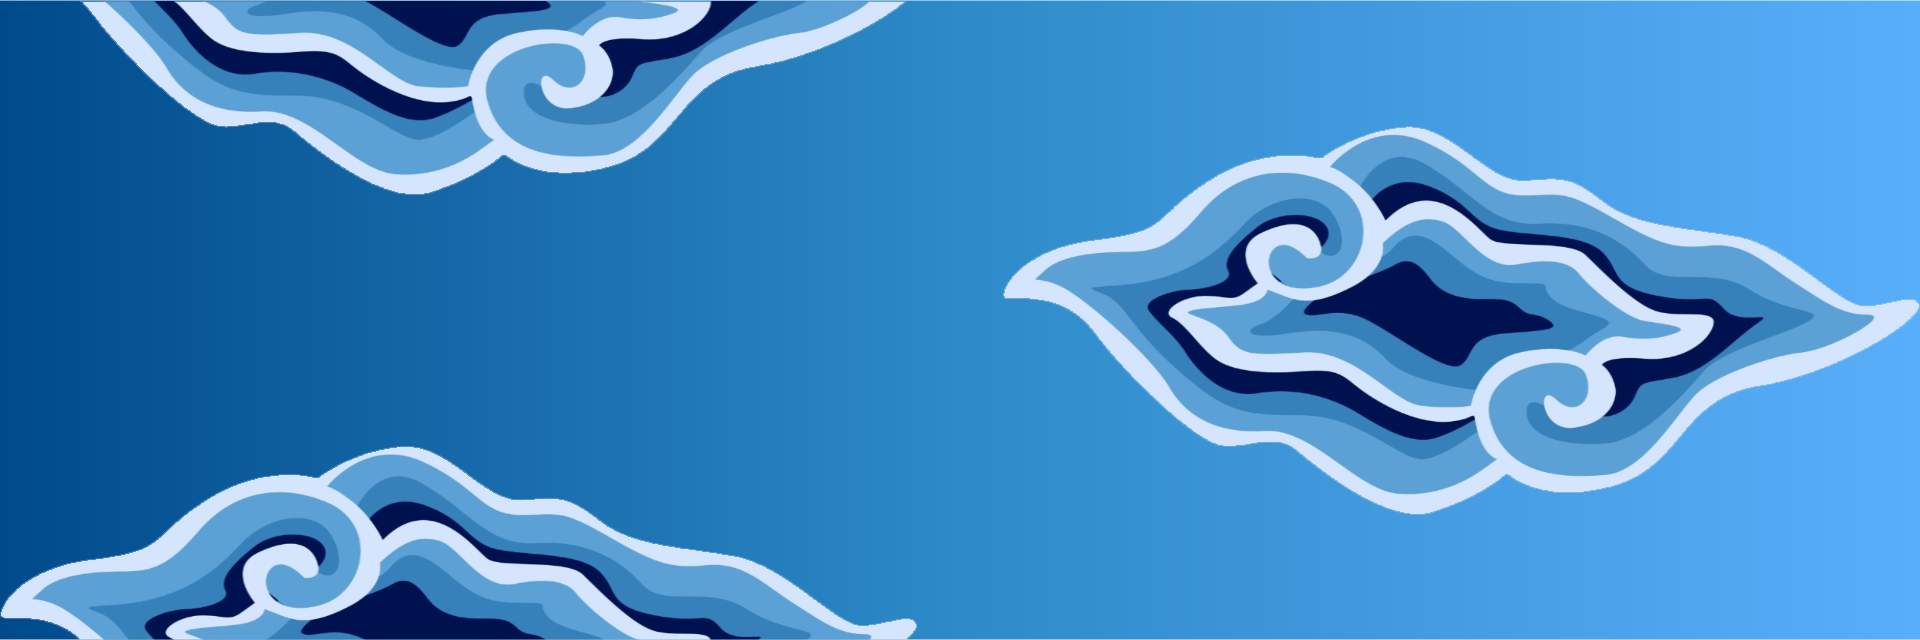
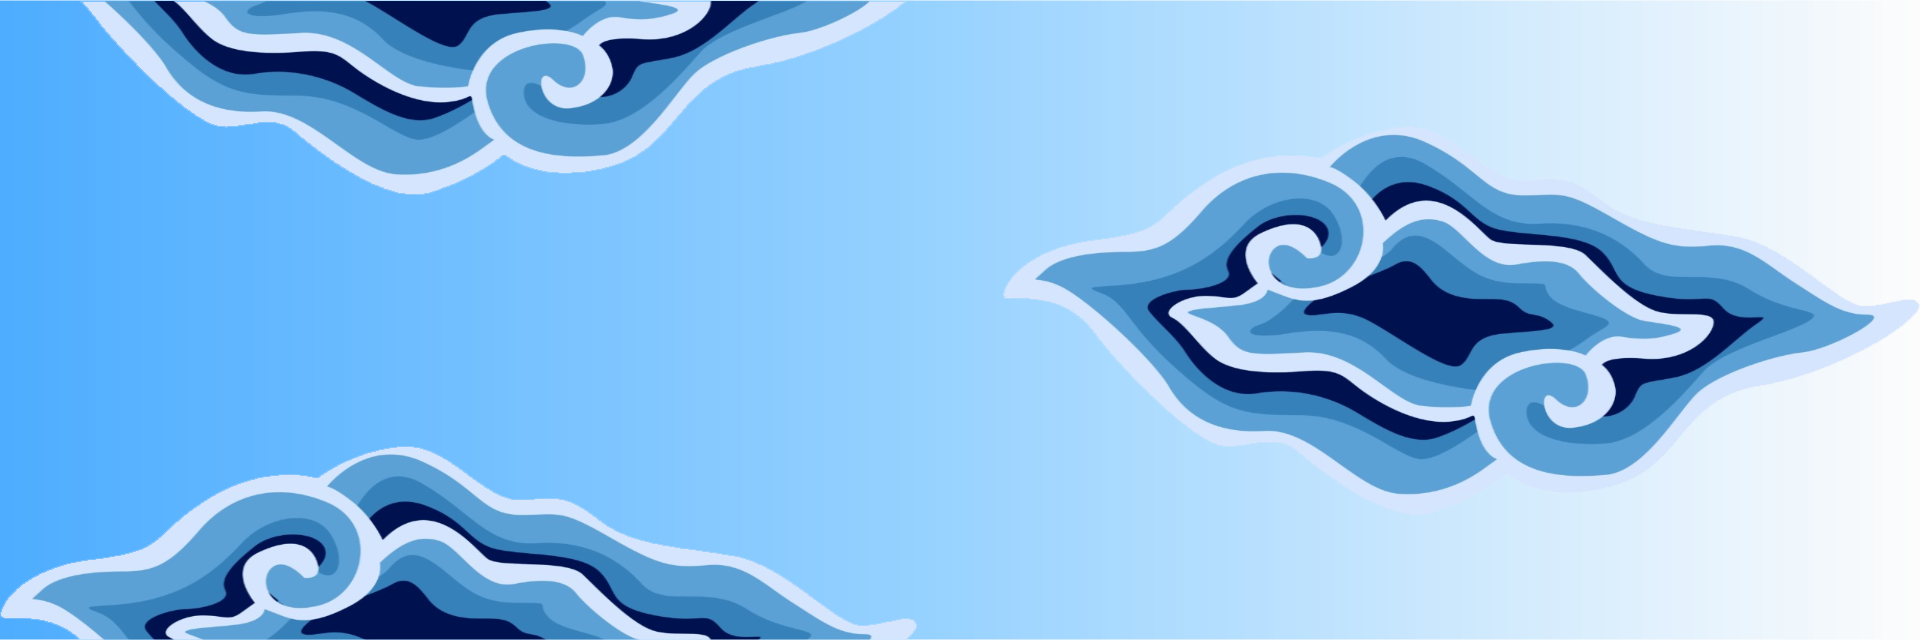
update

diff --git a/public/assets/landingpage/css/bootstrap.min.css b/public/assets/landingpage/css/bootstrap.min.css
@@ -34,9 +34,9 @@
         "Liberation Mono", "Courier New", monospace;
     --bs-gradient: linear-gradient(
         90deg,
-        rgba(0, 74, 139, 1) 0%,
-        rgba(46, 138, 200, 1) 50%,
-        rgba(89, 174, 250, 1) 100%
+        rgba(78, 173, 255, 1) 0%,
+        rgba(153, 211, 255, 1) 50%,
+        rgba(252, 252, 252, 1) 100%
     );
 }
 *,

diff --git a/resources/views/landingpage/index.blade.php b/resources/views/landingpage/index.blade.php
@@ -29,7 +29,9 @@
     {{-- personil --}}
     <div class="container-fluid container-service py-5" id="personil">
         <div class="container pb-5">
-            <h1 class="mb-3 fadeIn text-white" data-wow-delay="0.3s">Rapor pendidikan SMP Negeri 2 Kota Cirebon</h1>
+            <h1 class="mb-3 fadeIn text-white" data-wow-delay="0.3s" style="text-shadow: 2px 2px black">
+                Rapor pendidikan SMP Negeri 2 Kota Cirebon
+            </h1>
             <div class="d-flex flex-wrap justify-content-center g-0 feature-row bg-white fadeIn" id="rapor"
                 data-wow-delay="0.3s">
             </div>
@@ -37,7 +39,7 @@
 
         <div class="container pb-5">
             <div class="row py-2">
-                <h1 class="display-6 fw-bold mb-3 text-white">Kepala Sekolah</h1>
+                <h1 class="display-6 fw-bold mb-3 text-white" style="text-shadow: 2px 2px black">Kepala Sekolah</h1>
                 <div class="col-md-6 wow fadeIn mt-2 my-4" data-wow-delay="0.3s">
                     <img class="img-fluid w-100 shadow" style="border-radius: 1%"
                         src="{{ isset($kepalaSekolah) ? asset('assets/panel/admin/images/personil/' . $kepalaSekolah->image) : asset('assets/panel/admin/images/personil/person.jpg') }}"
@@ -59,12 +61,12 @@
 
         <div class="container pb-5">
             <div class="d-flex justify-content-between align-items-center mb-4">
-                <h1 class="display-6 mb-3">Ekstrakulikuler</h1>
+                <h1 class="display-6 mb-3 text-white" style="text-shadow: 2px 2px black">Ekstrakulikuler</h1>
                 {{-- <a href="{{ route('berita') }}" class="btn btn-primary btn-sm shadow">Lihat Semua Berita</a> --}}
             </div>
             <div class="row g-2">
                 @if (count($ekskuls) == 0)
-                    <h5 class="text-center">Tidak ada Ekstrakulikuler</h5>
+                    <h5 class="text-center text-white" style="text-shadow: 2px 2px black">Tidak ada Ekstrakulikuler</h5>
                 @endif
                 @foreach ($ekskuls as $ekskul)
                     <div class="col-lg-4 col-md-4 wow fadeInUp overflow-hidden fadeIn shadow"
@@ -88,13 +90,13 @@
 
         <div class="container pb-5" id="prestasi">
             <div class="d-flex justify-content-between align-items-center mb-4">
-                <h1 class="mb-3">Prestasi SMP Negeri 2 Kota Cirebon</h1>
+                <h1 class="mb-3 text-white" style="text-shadow: 2px 2px black">Prestasi SMP Negeri 2 Kota Cirebon</h1>
                 <a href="{{ route('prestasi') }}" class="btn btn-primary btn-sm shadow">Lihat Semua Prestasi</a>
             </div>
 
             <div class="row g-4 fadeIn" data-wow-delay="0.2s">
                 @if (count($prestasi) == 0)
-                    <h5 class="text-center">Tidak ada prestasi</h5>
+                    <h5 class="text-center text-white" style="text-shadow: 2px 2px black">Tidak ada prestasi</h5>
                 @endif
                 @foreach ($prestasi as $prestasi)
                     <div class="col-lg-4 col-md-6 wow fadeInUp" data-wow-delay="0.1s" style="object-fit: cover;">
@@ -119,12 +121,12 @@
 
         <div class="container pb-5">
             <div class="d-flex justify-content-between align-items-center mb-4">
-                <h1 class="display-6 mb-3">Berita</h1>
+                <h1 class="display-6 mb-3 text-white" style="text-shadow: 2px 2px black;">Berita</h1>
                 <a href="{{ route('berita') }}" class="btn btn-primary btn-sm shadow">Lihat Semua Berita</a>
             </div>
             <div class="row g-2">
                 @if (count($pengumuman) == 0)
-                    <h5 class="text-center">Tidak ada pengumuman</h5>
+                    <h5 class="text-center text-white" style="text-shadow: 2px 2px black">Tidak ada pengumuman</h5>
                 @endif
                 @foreach ($pengumuman as $pengumuman)
                     <div class="col-lg-4 col-md-6 wow fadeInUp overflow-hidden fadeIn shadow"
@@ -160,7 +162,7 @@
         </div>
 
         <div class="container pb-5">
-            <h1 class="display-6 text-dark mb-4">Kritik dan Saran</h1>
+            <h1 class="display-6 text-white mb-4" style="text-shadow: 2px 2px black">Kritik dan Saran</h1>
             <form action="{{ route('kritikDanSaran.store') }}" method="POST">
                 @csrf
                 @method('POST')
@@ -196,7 +198,7 @@
                     </div>
                     <div class="cold-md-12">
                         <div class="text-center">
-                            <h3>Berikan kami nilai</h3>
+                            <h3 class="text-white" style="text-shadow: 2px 2px black">Berikan kami nilai</h3>
                             <div class="btn-group" role="group" aria-label="Basic checkbox toggle button group">
                                 @for ($i = 1; $i <= 5; $i++)
                                     <input type="radio" class="btn-check" name="rating"
@@ -228,12 +230,14 @@
         <div class="container pt-5">
             <div class="row gy-5 gx-0">
                 <div class="col-lg-6 pe-lg-5 wow fadeIn" data-wow-delay="0.3s">
-                    <h1 class="display-6 text-white mb-4">Apa yang di katakan siswa tentang kami?</h1>
-                    <p class="text-white mb-5">Siswa kami sangat menghargai pengalaman belajar yang mereka dapatkan di
-                        sekolah ini. Menurut mereka, lingkungan yang ramah dan guru-guru yang berdedikasi membuat proses
-                        belajar menjadi menyenangkan dan bermanfaat. Beberapa siswa juga mengatakan bahwa mereka merasa
-                        didukung untuk mengembangkan bakat dan minat mereka, baik dalam bidang akademik maupun non-akademik.
-                        Berikut beberapa komentar dari siswa kami:</p>
+                    <h1 class="display-6 text-white mb-4">Apa yang orang katakan tentang kami?</h1>
+                    <p class="text-white mb-5" style="text-align: justify">
+                        Orang-orang yang terlibat dengan sekolah kami sangat menghargai pengalaman belajar yang mereka
+                        peroleh. Mereka merasa bahwa lingkungan yang ramah dan pendidik yang berdedikasi membuat proses
+                        belajar menjadi menyenangkan dan bermanfaat. Beberapa juga menyatakan bahwa mereka merasa didukung
+                        dalam mengembangkan bakat dan minat, baik dalam bidang akademik maupun non-akademik. Berikut
+                        beberapa komentar dari mereka:
+                    </p>
                 </div>
                 <div class="col-lg-6 mb-n5 py-5 wow fadeIn" data-wow-delay="0.5s">
                     <div class="bg-white p-4">

diff --git a/resources/views/landingpage/video.blade.php b/resources/views/landingpage/video.blade.php
@@ -5,18 +5,18 @@
         <div class="container">
             <div class="d-flex justify-content-between">
                 <h1 class="display-6 mb-3">Gallery Video</h1>
-                {{-- <select name="category" id="selectCategory" class="form-select w-25 h-50">
+                <select name="category" id="selectCategory" class="form-select w-25 h-50">
                     <option value="all" selected>Semua</option>
                     <option value="pengumuman">Pengumuman</option>
                     <option value="prestasi">Prestasi</option>
                     <option value="kegiatan">Kegiatan</option>
                     <option value="pensi">Pensi</option>
-                </select> --}}
+                </select>
             </div>
             <div class="row">
                 @foreach ($galleries as $gallery)
                     @if ($gallery->image == null)
-                        <div class="col-md-4 mb-3" style="object-fit: cover;">
+                        <div class="col-md-4 mb-3 gallerie" style="object-fit: cover;" data-category="{{ $gallery['category'] }}">
                             <div class="card">
                                 <div class="card-body">
                                     <video src="{{ asset('assets/panel/admin/video/galleries/' . $gallery['video']) }}"
@@ -37,28 +37,28 @@
 
 @section('scripts')
     <script>
-        // $(document).ready(() => {
-        //     // Filter cards based on the selected category
-        //     function filterCards(category) {
-        //         $('.gallerie').each(function() {
-        //             let cardCategory = $(this).data('category');
-        //             if (category === 'all' || category === cardCategory) {
-        //                 $(this).show();
-        //             } else {
-        //                 $(this).hide();
-        //             }
-        //         });
-        //     }
+        $(document).ready(() => {
+            // Filter cards based on the selected category
+            function filterCards(category) {
+                $('.gallerie').each(function() {
+                    let cardCategory = $(this).data('category');
+                    if (category === 'all' || category === cardCategory) {
+                        $(this).show();
+                    } else {
+                        $(this).hide();
+                    }
+                });
+            }
 
-        //     // Initial filter based on default selected value
-        //     let category = $('#selectCategory').val();
-        //     filterCards(category);
+            // Initial filter based on default selected value
+            let category = $('#selectCategory').val();
+            filterCards(category);
 
-        //     // Filter cards when the category changes
-        //     $('#selectCategory').on('change', function() {
-        //         category = $(this).val();
-        //         filterCards(category);
-        //     });
-        // });
+            // Filter cards when the category changes
+            $('#selectCategory').on('change', function() {
+                category = $(this).val();
+                filterCards(category);
+            });
+        });
     </script>
 @endsection

diff --git a/resources/views/landingpage/app.blade.php b/resources/views/landingpage/app.blade.php
@@ -112,7 +112,7 @@
                     </a>
                     <p>Unggul Dalam Mutu Teruji Dalam Prestasi Dengan Dilandasi Iman Dan Taqwa</p>
                     <h1 class="text-white w-100">Ayo Hubungi Kami</h1>
-                    <p class="fs-5 mb-4 pt-1">Mari berinteraksi dengan kami via kontak berikut ini</p>
+                    <p class="">Mari berinteraksi dengan kami via kontak berikut ini</p>
                     <div class="row gy-2">
                         <a class="text-white" target="_blank"
                             href="https://www.google.com/maps?ll=-6.708235,108.558771&z=16&t=m&hl=id&gl=ID&mapclient=embed&cid=6191927413615920340">
@@ -135,16 +135,24 @@
                         <div class="col-sm-12">
                             <h4 class="text-white mb-4">Navigasi Cepat</h4>
                             <div class="row">
-                                <div class="col-sm-6">
+                                <div class="col-sm">
                                     <a href="/" class="nav-item nav-link active text-white">Beranda</a>
                                     <a href="/profile" class="nav-item nav-link text-white">Profil</a>
                                     <a href="/berita" class="nav-item nav-link text-white">Berita</a>
-                                </div>
-                                <div class="col-sm-6">
                                     <a href="/prestasi" class="nav-item nav-link text-white">Prestasi</a>
-                                    <a href="/galleries" class="nav-item nav-link text-white">Gallery</a>
-                                    <a href="#contact" class="nav-item nav-link text-white">Contact</a>
+                                    <a href="/sarana-prasana" class="nav-item nav-link text-white">Sarana
+                                        Prasaranan</a>
                                 </div>
+                                <div class="col-sm">
+                                    <a href="/ekskul" class="nav-item nav-link text-white">Ekstrakulikuler</a>
+                                    <a href="/tenaga-pendidik" class="nav-item nav-link text-white">Tenaga
+                                        Pendidik</a>
+                                    <a href="/gallery-foto" class="nav-item nav-link text-white">Foto</a>
+                                    <a href="/gallery-video" class="nav-item nav-link text-white">Video</a>
+                                    <a href="#contact" class="nav-item nav-link text-white">Kontak</a>
+                                </div>
+                                {{-- <div class="col-sm">
+                                </div> --}}
                             </div>
                         </div>
                         <div class="col-sm-12">

diff --git a/resources/views/landingpage/foto.blade.php b/resources/views/landingpage/foto.blade.php
@@ -5,13 +5,13 @@
         <div class="container">
             <div class="d-flex justify-content-between">
                 <h1 class="display-6 mb-3">Gallery Foto</h1>
-                {{-- <select name="category" id="selectCategory" class="form-select w-25 h-50">
+                <select name="category" id="selectCategory" class="form-select w-25 h-50">
                     <option value="all" selected>Semua</option>
                     <option value="pengumuman">Pengumuman</option>
                     <option value="prestasi">Prestasi</option>
                     <option value="kegiatan">Kegiatan</option>
                     <option value="pensi">Pensi</option>
-                </select> --}}
+                </select>
             </div>
             <div class="row">
                 @foreach ($galleries as $gallery)
@@ -36,28 +36,28 @@
 
 @section('scripts')
     <script>
-        // $(document).ready(() => {
-        //     // Filter cards based on the selected category
-        //     function filterCards(category) {
-        //         $('.gallerie').each(function() {
-        //             let cardCategory = $(this).data('category');
-        //             if (category === 'all' || category === cardCategory) {
-        //                 $(this).show();
-        //             } else {
-        //                 $(this).hide();
-        //             }
-        //         });
-        //     }
+        $(document).ready(() => {
+            // Filter cards based on the selected category
+            function filterCards(category) {
+                $('.gallerie').each(function() {
+                    let cardCategory = $(this).data('category');
+                    if (category === 'all' || category === cardCategory) {
+                        $(this).show();
+                    } else {
+                        $(this).hide();
+                    }
+                });
+            }
 
-        //     // Initial filter based on default selected value
-        //     let category = $('#selectCategory').val();
-        //     filterCards(category);
+            // Initial filter based on default selected value
+            let category = $('#selectCategory').val();
+            filterCards(category);
 
-        //     // Filter cards when the category changes
-        //     $('#selectCategory').on('change', function() {
-        //         category = $(this).val();
-        //         filterCards(category);
-        //     });
-        // });
+            // Filter cards when the category changes
+            $('#selectCategory').on('change', function() {
+                category = $(this).val();
+                filterCards(category);
+            });
+        });
     </script>
 @endsection

diff --git a/resources/views/panel/admin/gallery/index.blade.php b/resources/views/panel/admin/gallery/index.blade.php
@@ -117,10 +117,17 @@
                             </div>
                             <div class="col-12">
                                 <div class="mb-3">
+                                    <label for="keterangan" class="form-label">Keterangan</label>
+                                    <textarea class="form-control w-100" type="text" id="keterangan" name="keterangan" placeholder="Masukkan Keterangan"></textarea>
+                                </div>
+                            </div>
+                            <div class="col-12">
+                                <div class="mb-3">
                                     <label for="formFile" class="form-label">Kategori</label>
                                     <select name="category" id="selectCategory" class="form-select">
                                         <option disabled selected>Pilih Kategori</option>
                                         <option value="pengumuman">Pengumuman</option>
+                                        <option value="prestasi">Prestasi</option>
                                         @foreach ($ekskul as $item)
                                             <option value="{{ $item['title'] }}">{{ $item['title'] }}</option>
                                         @endforeach

diff --git a/resources/views/landingpage/sarana.blade.php b/resources/views/landingpage/sarana.blade.php
@@ -4,7 +4,7 @@
     <div class="container-fluid py-5 bg-white" style="height: 100%">
         <div class="container">
             <div class="d-flex justify-content-between">
-                <h1 class="display-6 mb-3">Gallery Foto</h1>
+                <h1 class="display-6 mb-3">Sarana Prasarana</h1>
                 {{-- <select name="category" id="selectCategory" class="form-select w-25 h-50">
                     <option value="all" selected>Semua</option>
                     <option value="pengumuman">Pengumuman</option>
@@ -21,7 +21,8 @@
                                 <img src="{{ asset('assets/panel/admin/images/sarana-prasarana/' . $sarana->image) }}"
                                     alt="" class="img-fluid w-100"
                                     style="{{ $sarana->status == 0 ? 'filter: grayscale(100%);' : '' }} width: 250px; height: 250px; object-fit: cover">
-                                <p class="h5 my-3">{{ $sarana->title }}</p>
+                                <p class="h5 my-3">{{ $sarana->name }}</p>
+                                <p>{{ $sarana->keterangan }}</p>
                             </div>
                         </div>
                     </div>

diff --git a/resources/views/components/nav-item.blade.php b/resources/views/components/nav-item.blade.php
@@ -8,15 +8,15 @@
             <a href="/prestasi" class="dropdown-item">Prestasi</a>
             <a href="/sarana-prasana" class="dropdown-item">Sarana Prasarana</a>
             <a href="/tenaga-pendidik" class="dropdown-item">Tenaga Pendidik</a>
-            <a href="/ekskul" class="dropdown-item">Ekstrakulikuler</a>
+            <a href="/ekskul" class="dropdown-item">Ekstrakurikuler</a>
         </div>
     </div>
     <div class="nav-item dropdown">
         <a href="#" class="nav-link dropdown-toggle text-dark {{ $class }}"
-            data-bs-toggle="dropdown">Gallery</a>
+            data-bs-toggle="dropdown">Galeri</a>
         <div class="dropdown-menu border shadow-sm m-0">
             <a href="/gallery-foto" class="dropdown-item">Foto</a>
             <a href="/gallery-video" class="dropdown-item">Video</a>
         </div>
     </div>
-    <a href="#contact" class="nav-item nav-link {{ $class }}">Contact</a>
+    <a href="#contact" class="nav-item nav-link {{ $class }}">Kontak</a>

diff --git a/resources/views/panel/admin/sarana-prasarana/index.blade.php b/resources/views/panel/admin/sarana-prasarana/index.blade.php
@@ -99,6 +99,12 @@
                                     <input class="form-control" type="file" id="formFile" name="file">
                                 </div>
                             </div>
+                            <div class="col-12">
+                                <div class="mb-3">
+                                    <label for="keterangan" class="form-label">Keterangan</label>
+                                    <textarea class="form-control w-100" type="text" id="keterangan" name="keterangan" placeholder="Masukkan Keterangan"></textarea>
+                                </div>
+                            </div>
                             {{-- <div class="col-12">
                                 <div class="mb-3">
                                     <label for="formFile" class="form-label">Kategori</label>

diff --git a/app/Http/Controllers/SaranaPrasanaController.php b/app/Http/Controllers/SaranaPrasanaController.php
@@ -8,6 +8,10 @@ use Illuminate\Http\Request;
 
 class SaranaPrasanaController extends Controller
 {
+    public function __construct()
+    {
+        $this->middleware('auth');
+    }
     public function index()
     {
         $sarana = SaranaPrasarana::all();
@@ -23,6 +27,7 @@ class SaranaPrasanaController extends Controller
 
             $data = [
                 'name' => $request->title,
+                'keterangan' => $request->keterangan,
                 'status' => 1,
             ];
 

diff --git a/database/migrations/2024_07_15_072709_sarana_prasarana.php b/database/migrations/2024_07_15_072709_sarana_prasarana.php
@@ -15,6 +15,7 @@ return new class extends Migration
             $table->id();
             $table->string('name');
             $table->string('image')->nullable();
+            $table->string('keterangan')->nullable();
             $table->string('status');
             $table->timestamps();
         });
